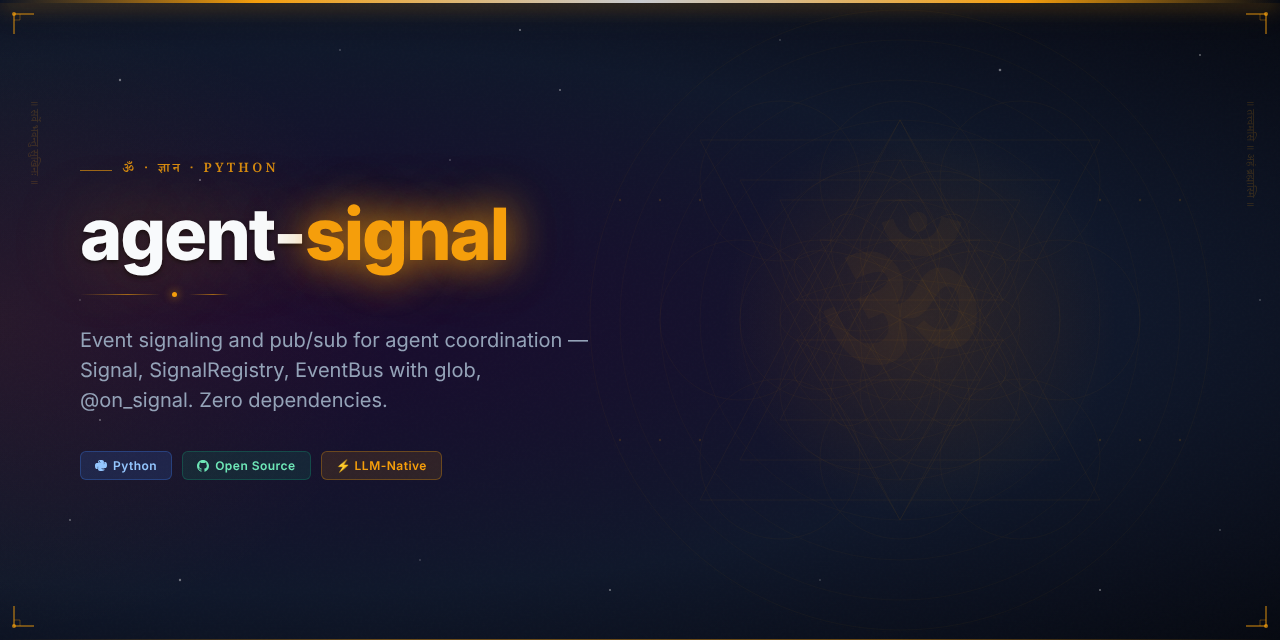
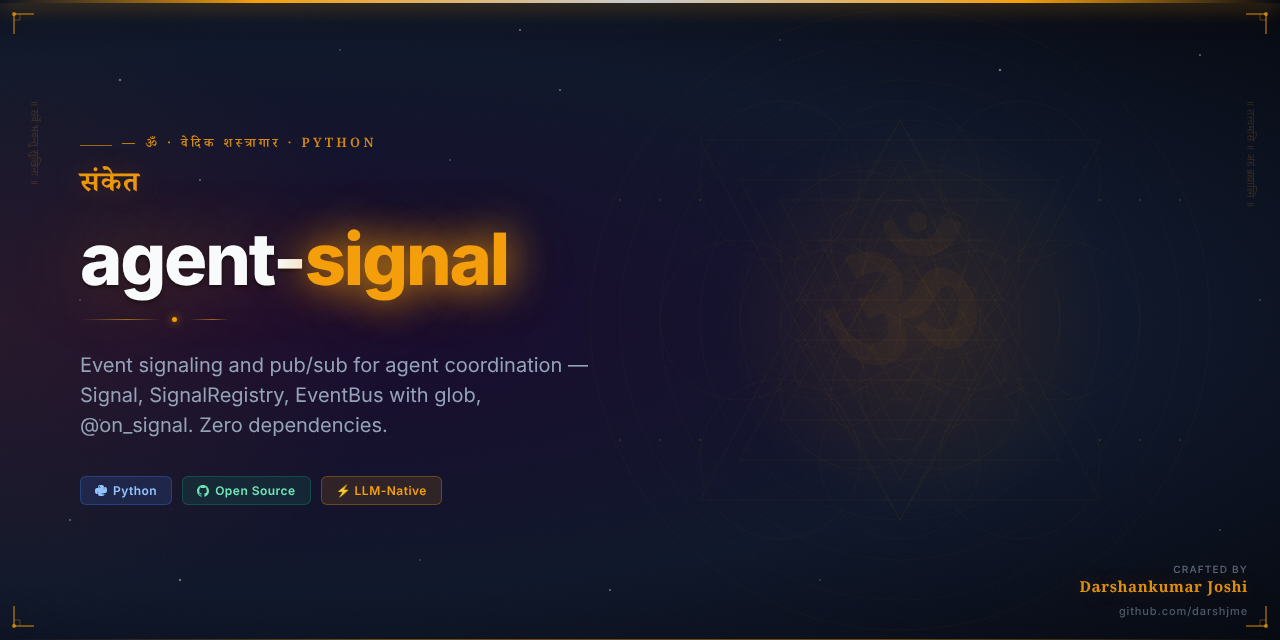
feat: add Vedic Arsenal hero image and updated README
Part of darshjme/arsenal — 100 production-grade Python libraries for LLM agents.
Vedic branding: ancient philosophy meets modern AI engineering.

diff --git a/README.md b/README.md
@@ -1,10 +1,12 @@
 <div align="center">
 
-<img src="assets/agent-signal-hero.png" alt="agent-signal — Vedic Arsenal" width="100%" />
+<img src="assets/agent-signal-hero.png" alt="agent-signal — Vedic Arsenal by Darshankumar Joshi" width="100%" />
 
 # ⚡ agent-signal
 
-### *संकेत* — Sanketa — the divine signal
+<h3><em>संकेत</em></h3>
+
+> *Sanketa — the divine signal*
 
 **Event signaling and pub/sub for agent coordination — Signal, SignalRegistry, EventBus with glob, @on_signal. Zero dependencies.**
 
@@ -39,6 +41,19 @@ Or clone directly:
 git clone https://github.com/darshjme/agent-signal.git
 cd agent-signal
 pip install -e .
+```
+
+## How It Works
+
+```mermaid
+flowchart LR
+    A[Input] --> B[agent-signal]
+    B --> C{Process}
+    C -- Success --> D[Output]
+    C -- Error --> E[Handle / Retry]
+    E --> B
+    style B fill:#6b21a8,color:#fff
+    note["Signal — Zero Dependencies"]
 ```
 
 ## Quick Start
@@ -90,7 +105,7 @@ MIT — use freely, build freely.
 
 <div align="center">
 
-**Built with ⚡ by [Darshankumar Joshi](https://github.com/darshjme)**
+**Built with ⚡ by [Darshankumar Joshi](https://github.com/darshjme)** · [@thedarshanjoshi](https://twitter.com/thedarshanjoshi)
 
 *"कर्मण्येवाधिकारस्ते मा फलेषु कदाचन"*
 *Your right is to action alone, never to the fruits thereof.*
